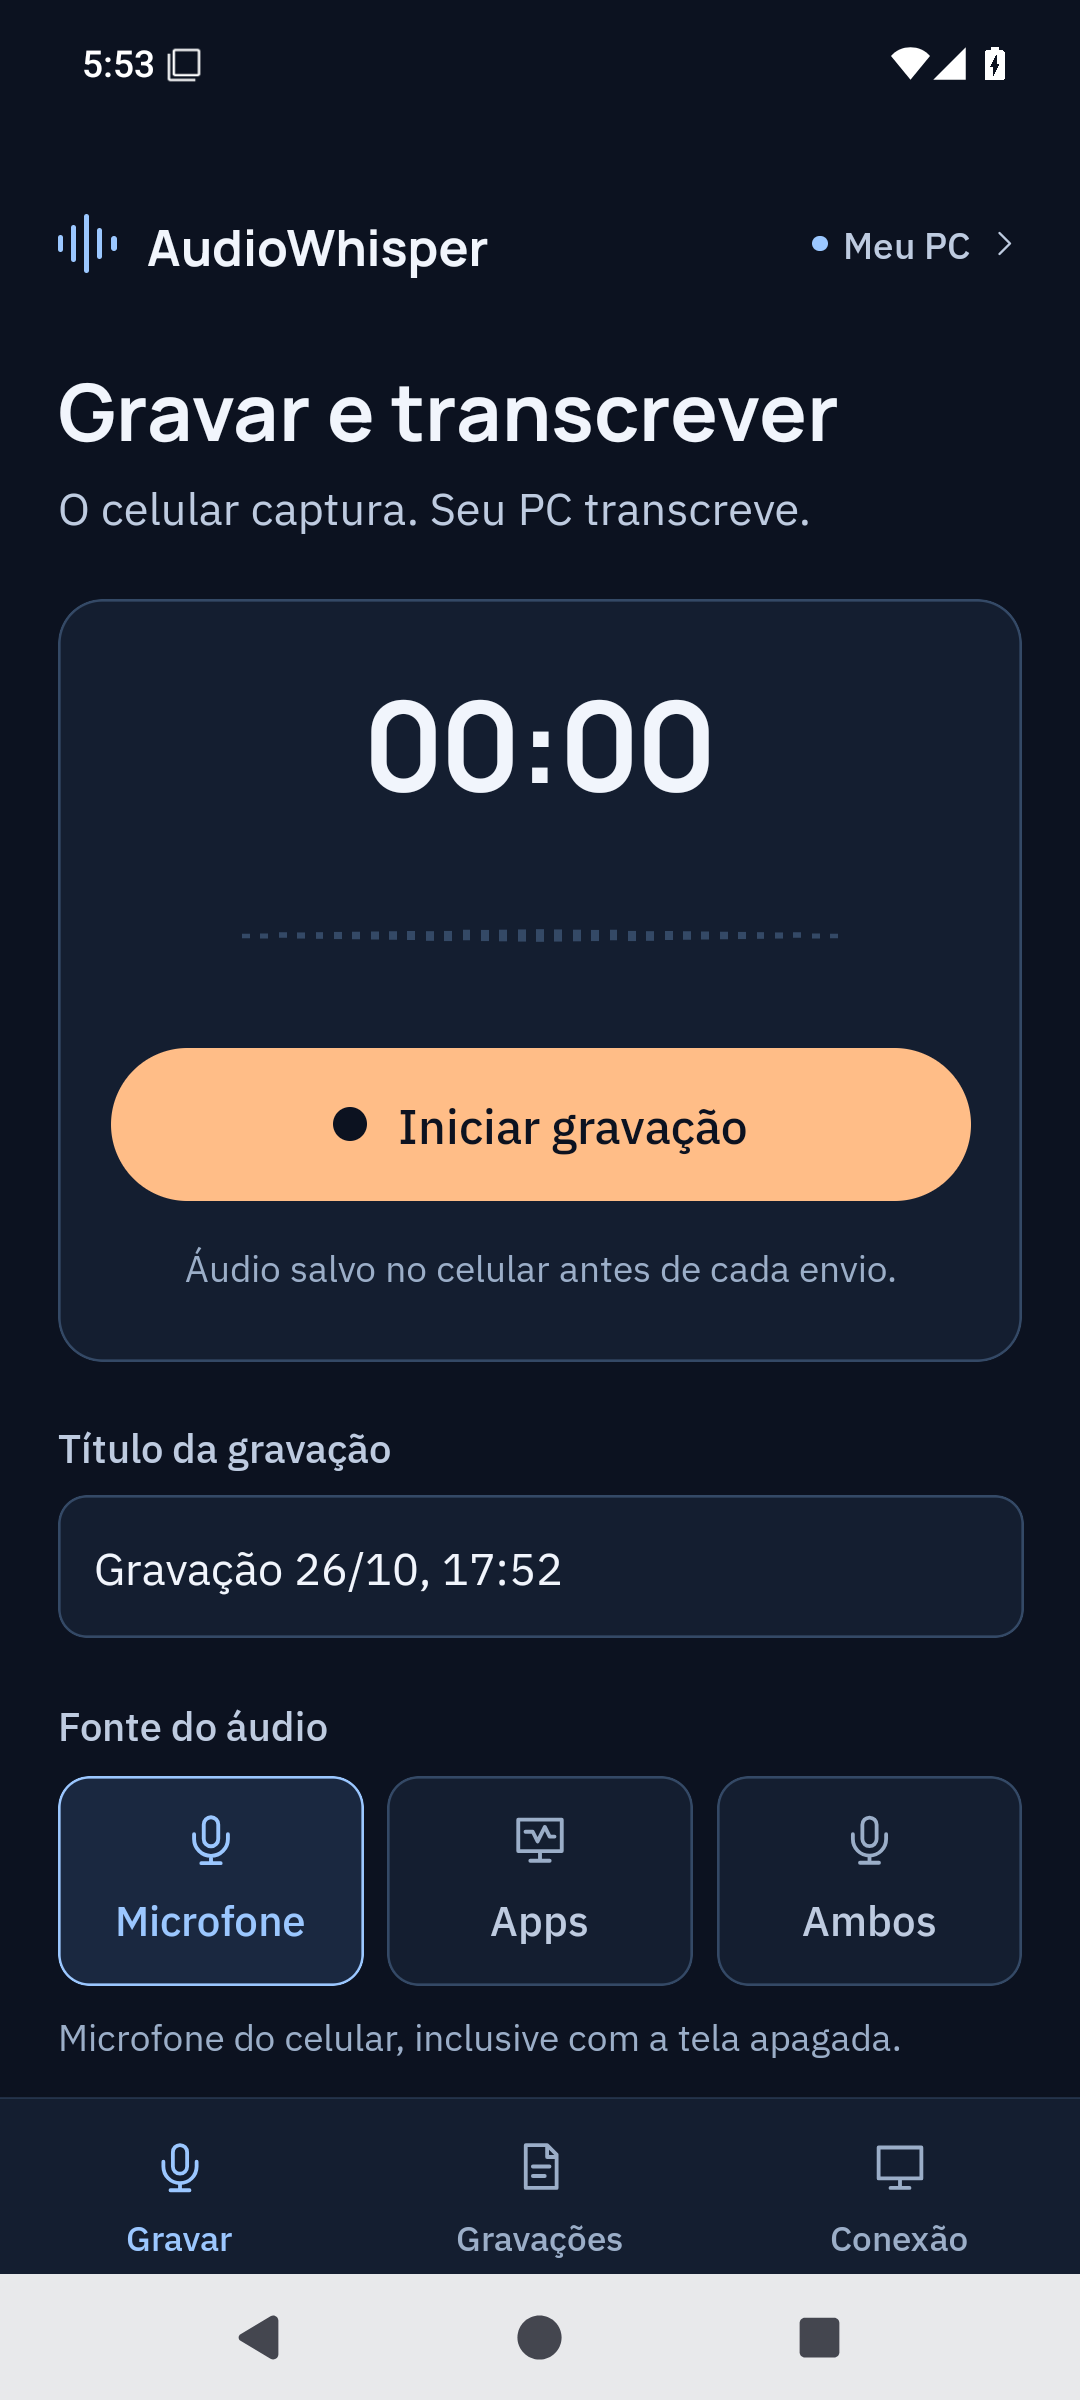
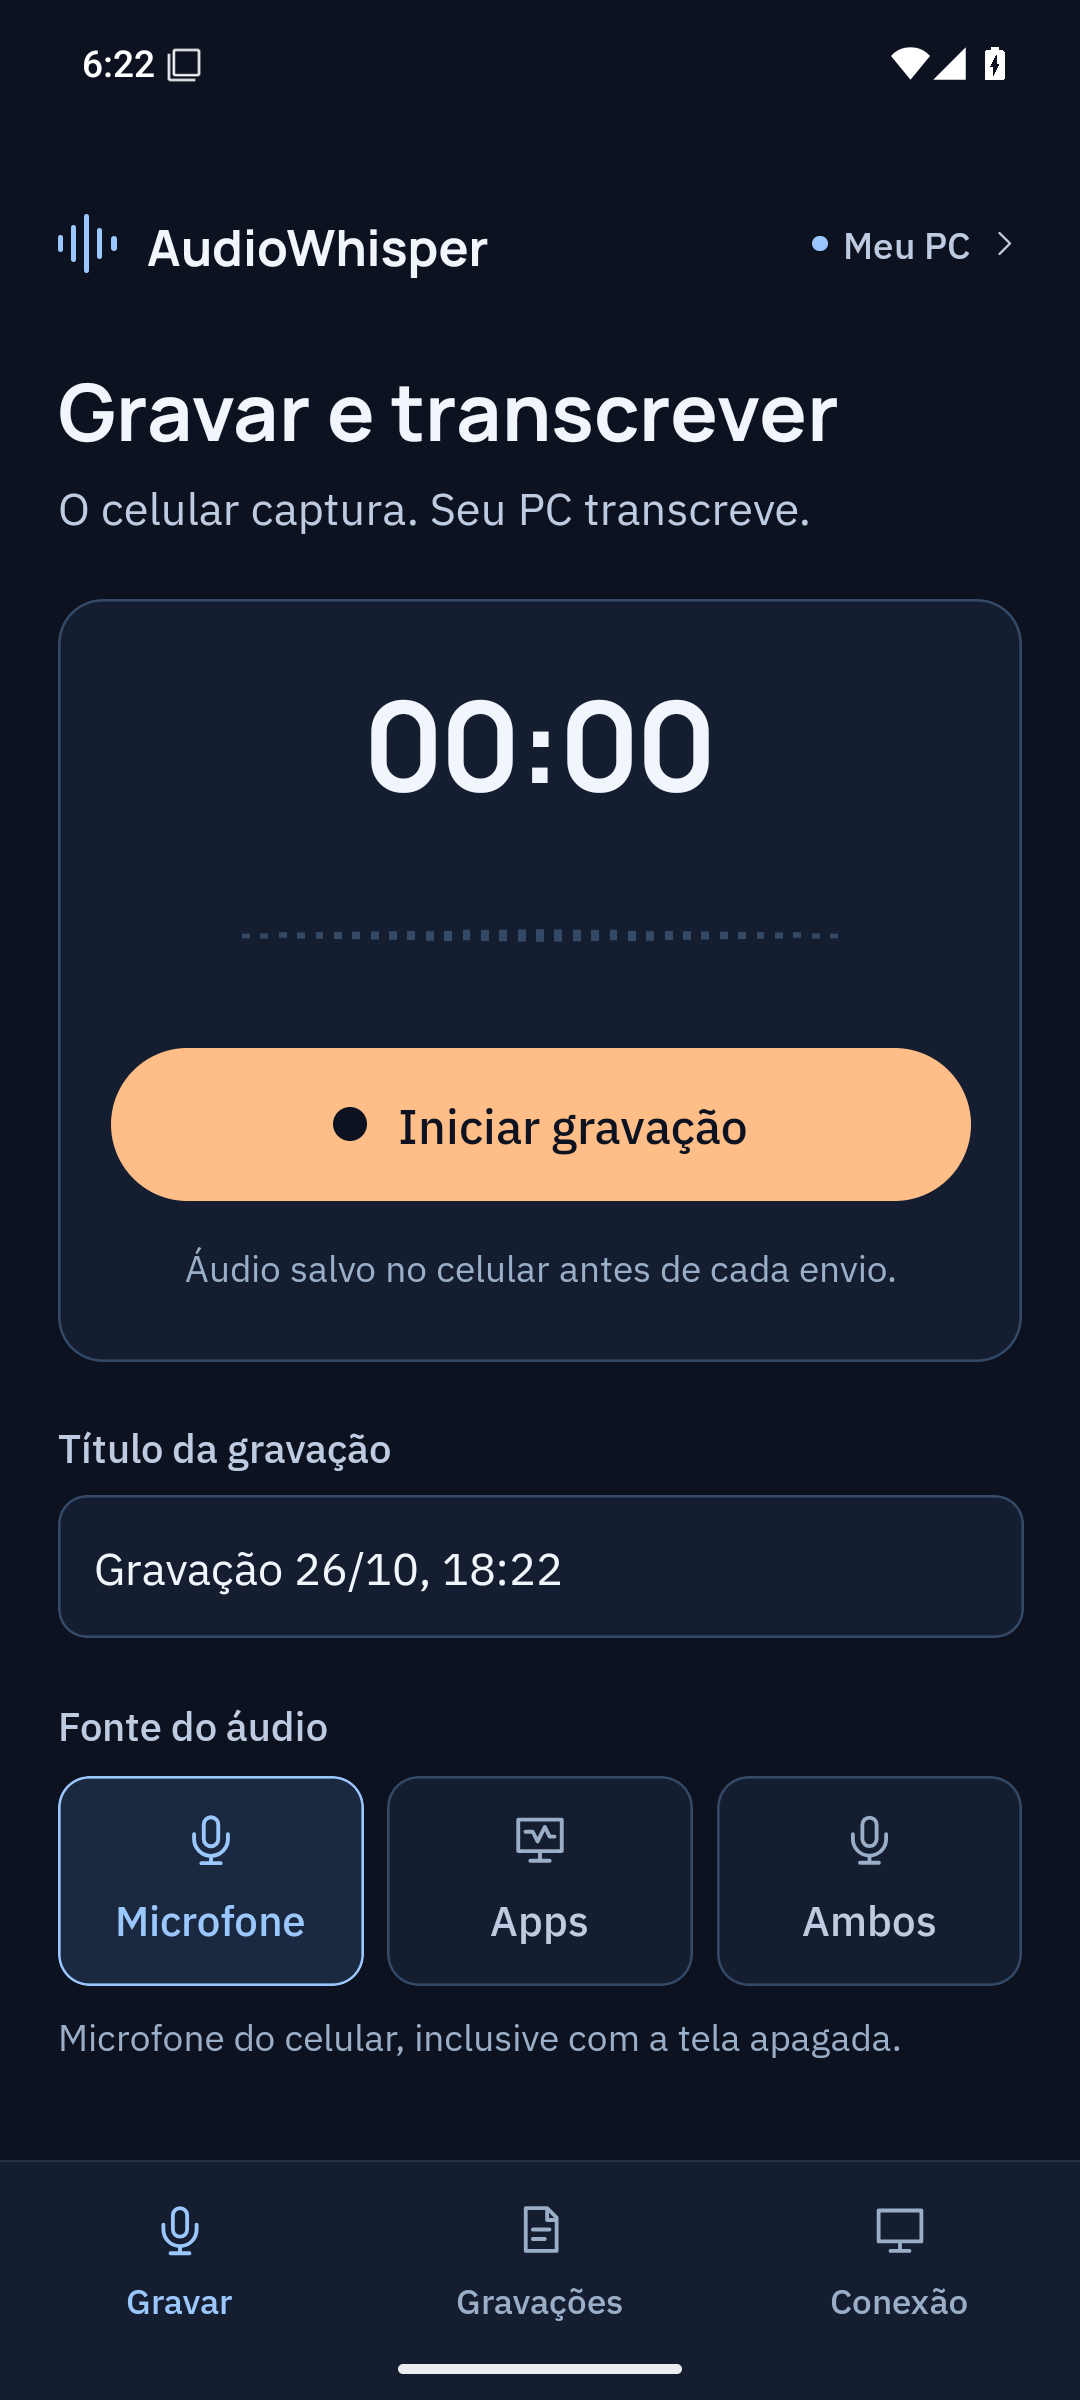
Record final mobile QA results and gesture navigation captures

Changed region(s): [[0.0, 0.875, 1.0, 1.0], [0.0917, 0.0, 0.1222, 0.0312]]

diff --git a/docs/MOBILE.md b/docs/MOBILE.md
@@ -115,9 +115,11 @@ As [exceções temporárias de dependências](../apps/mobile/SECURITY.md) são e
 - Android nativo: 10 testes aprovados para WAV, recuperação, perda de confirmação, identidade do PC, atualização da transcrição e transporte real até o worker na GPU.
 - O teste de integração confirmou texto não vazio antes do encerramento, finalização no PC com `device=cuda` e permanência do áudio local.
 - [Build no GitHub](https://github.com/spy-exe/AudioWhisper/actions/runs/40391539786): quality, Android e iOS aprovados.
-- APK assinado no emulador Android 15: 2 testes completos aprovados em 115,436 s. Incluem captura de microfone e aplicativos combinados, texto real antes de parar, desligamento de Wi-Fi e dados, reenvio após reconexão, parada pela notificação, microfone com tela bloqueada, recuperação após encerramento forçado e parada disponível durante um timeout de conexão.
+- APK assinado no emulador Android 15: 2 testes completos aprovados, repetidos após os ajustes finais (122,637 s na última execução). Incluem captura de microfone e aplicativos combinados, texto real antes de parar, desligamento de Wi-Fi e dados, reenvio após reconexão, parada pela notificação, microfone com tela bloqueada, recuperação após encerramento forçado e parada disponível durante um timeout de conexão.
 - QA visual em 411dp e 320dp, incluindo fonte a 130%, teclado, navegação por três botões e compartilhamento do WAV pelo seletor do sistema. A validação encontrou e corrigiu sobreposição da navegação e quebra de rótulos. Nenhuma mensagem ou arquivo foi enviado pelo seletor de compartilhamento.
 - Transição de tela registrada em vídeo no emulador e conferida quadro a quadro. O fundo de navegação foi alinhado ao tema escuro para evitar clarão durante o fade. Navegação também conferida com movimento reduzido no sistema; não representa um benchmark de FPS em aparelho físico.
+
+A cor dos botões de navegação do sistema ainda precisa de conferência em aparelho físico: há um [problema documentado no emulador Android 15](https://docs.expo.dev/versions/v55.0.0/sdk/navigation-bar/#navigationbarsetstylestyle) que pode ignorar a mudança de estilo. A área reservada para esses botões e os rótulos do aplicativo foram validados separadamente.
 
 Os testes de dispositivo recusam aparelhos físicos e APIs fora do ambiente `e2e` em `localhost:8090`. `tests/build_android_fixture.py` gera um player somente para QA com o arquivo público `apps/web/tests/e2e/fixtures/speech.wav`. A validação não injeta gravações na biblioteca pessoal.
 
